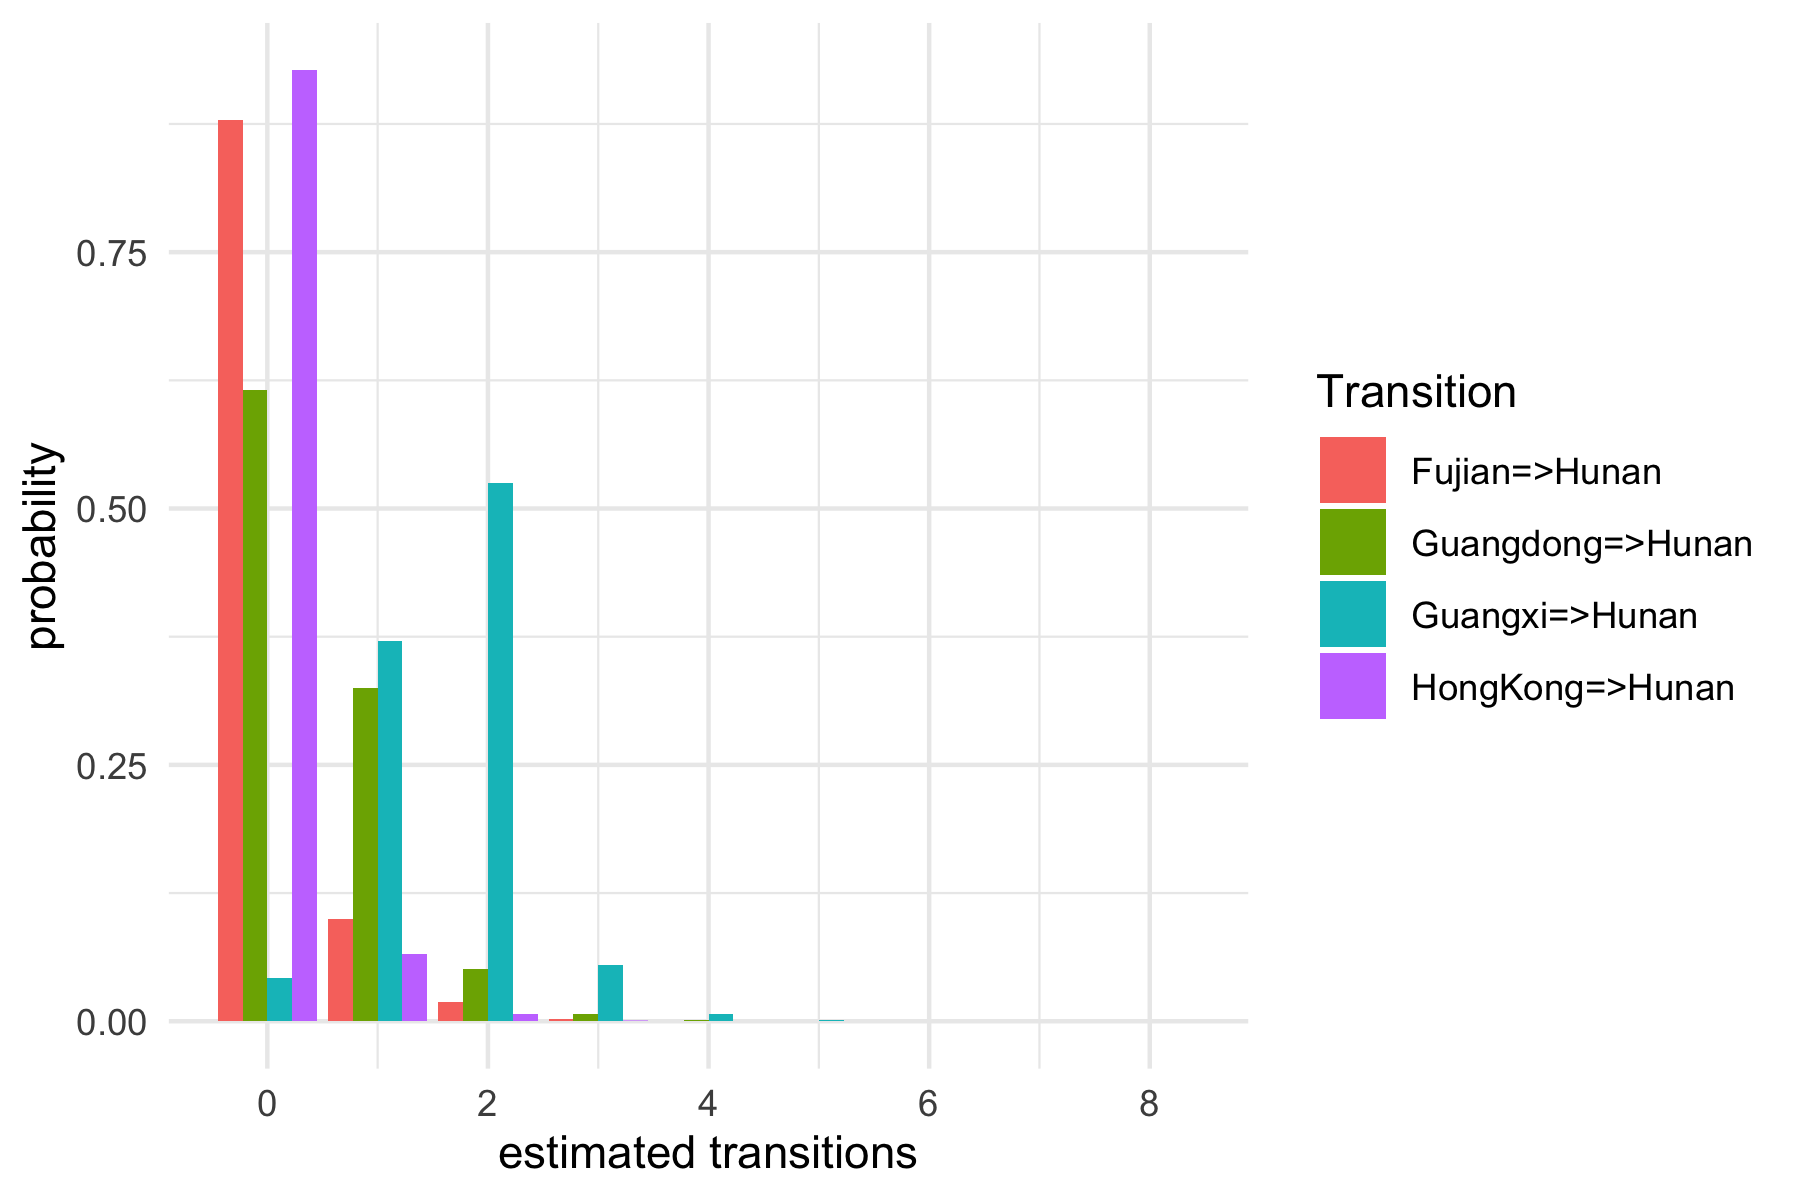
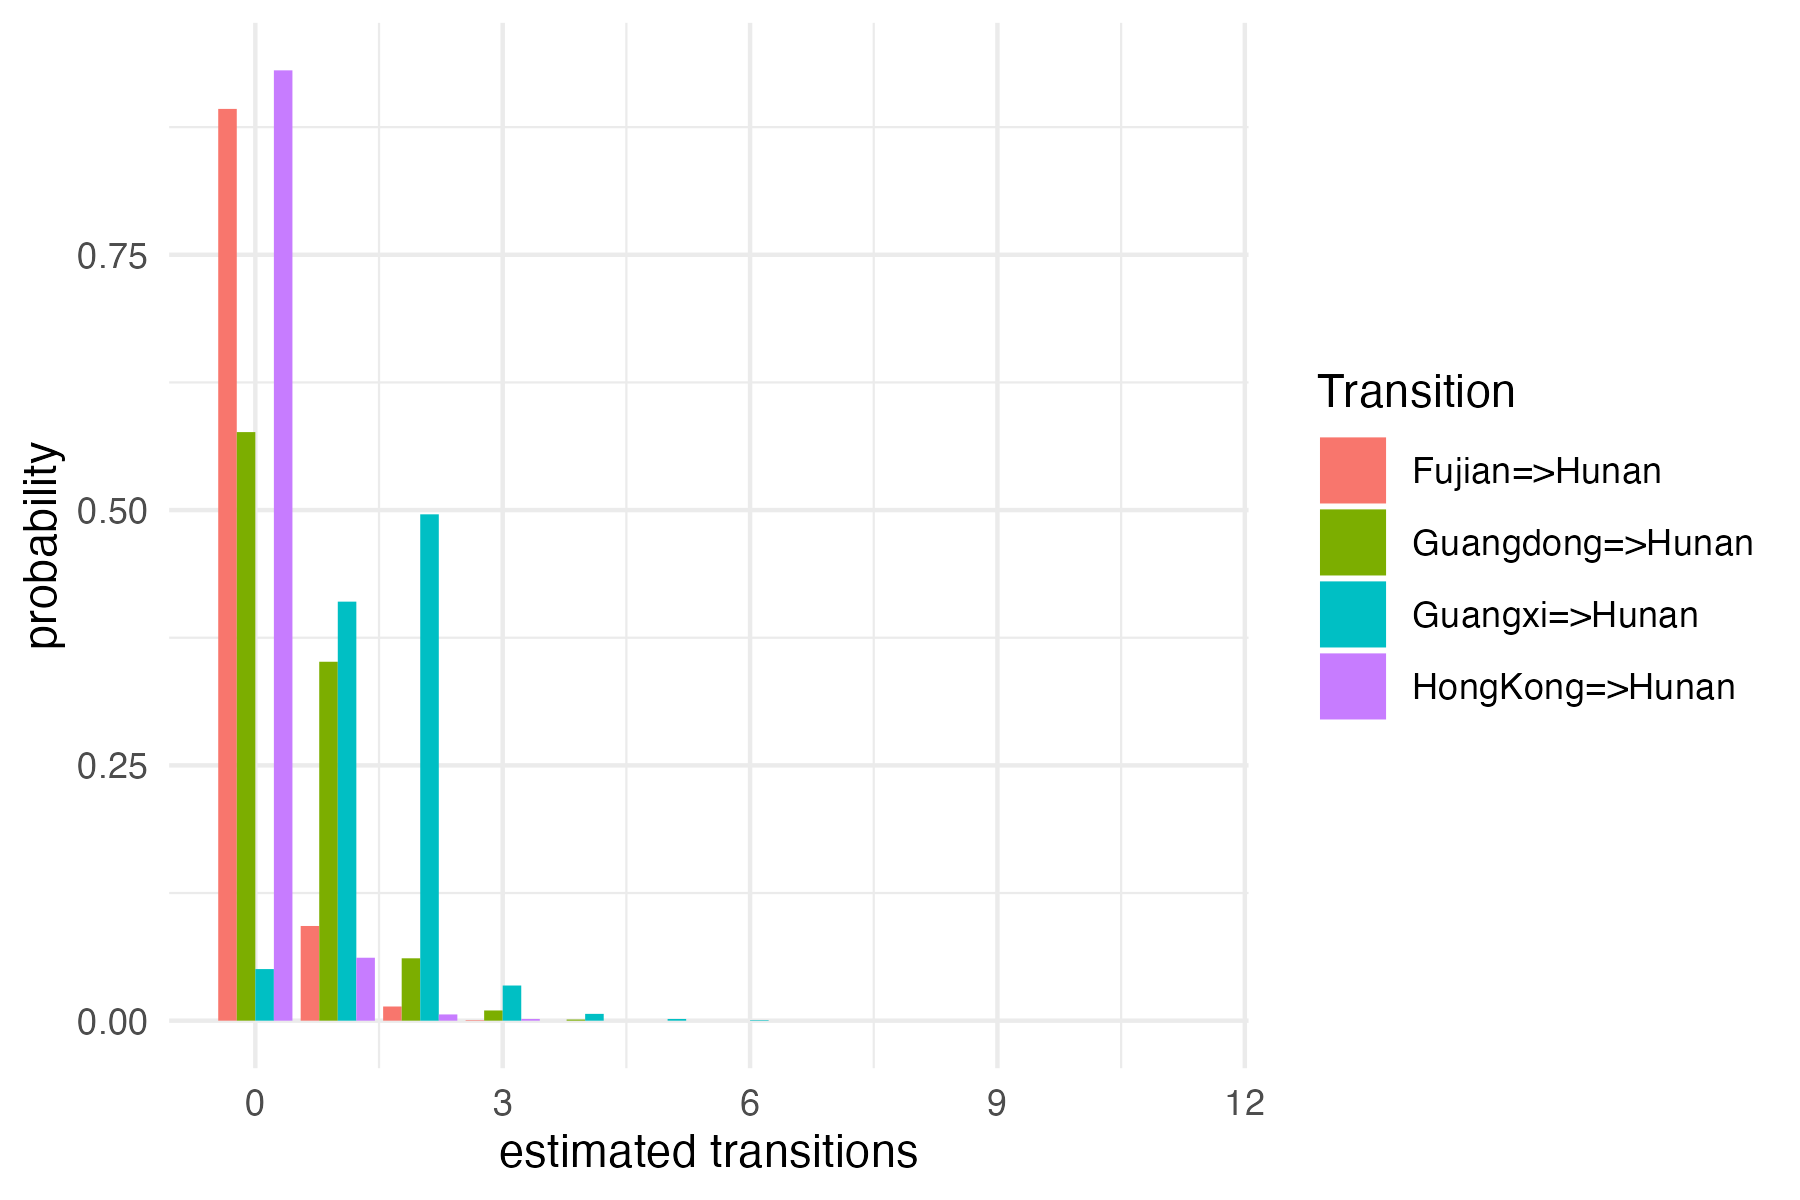
update tutorial and results

diff --git a/tutorials/discrete-phylogeography.md b/tutorials/discrete-phylogeography.md
@@ -271,7 +271,7 @@ or __upper__ stands for the _highest posterior density interval_ and represents 
 compact interval on the selected parameter that contains 95% of the posterior
 probability. It can be thought of as a Bayesian analog to a confidence interval.
 
-The [h5n1.log](https://linguaphylo.github.io/tutorials/discrete-phylogeography/h5n1/h5n1.log) 
+The [h5n1.log](discrete-phylogeography/h5n1//h5n1.log) 
 is alos provided as an additional resource, in case you need to use it for your analysis. 
 
 ## Summarizing posterior trees
@@ -279,7 +279,7 @@ is alos provided as an additional resource, in case you need to use it for your 
 {% include_relative templates/tree-annotator.md fig="TreeAnnotator.png" 
                     fignum=3 trees="h5n1_with_trait.trees" mcctree="h5n1_with_trait.tree"%}
 
-The [h5n1_with_trait.tree](https://linguaphylo.github.io/tutorials/discrete-phylogeography/h5n1/h5n1_with_trait.tree) 
+The [h5n1_with_trait.tree](discrete-phylogeography/h5n1//h5n1_with_trait.tree) 
 is alos provided as an additional resource, in case you need to use it for your analysis. 
 
 
@@ -305,7 +305,7 @@ This means that we have the following distribution for the root location:
 |Fujian|0.0555247084952804|
 
 This distribution shows that the 95% HPD consists of all locations except Hunan, 
-with a strong indication that HongKong might be the root with over 58% probability. 
+with a strong indication that HongKong might be the root with over 59% probability. 
 It is quite typical that a lot of locations are part of the 95% HPD in discrete phylogeography.
 
 
@@ -330,108 +330,123 @@ Lauch the program, and follow the steps below:
 You should end up with something like Figure 4.
 
 <figure class="image">
-  <a href="../discrete-phylogeography/h5n1_with_trait.tree.svg" target="_blank">
-  <img src="../discrete-phylogeography/h5n1_with_trait.tree.svg" alt="MCC tree"></a>
+  <a href="discrete-phylogeography/h5n1/h5n1_with_trait.tree.svg" target="_blank">
+  <img src="discrete-phylogeography/h5n1/h5n1_with_trait.tree.svg" alt="MCC tree"></a>
   <figcaption>Figure 4: Figtree representation of the summary tree. 
   Branch colours represent location and branch widths posterior support for the branch.</figcaption>
 </figure>
 
-Alternatively, you can load the posterior tree set `h5n1_with_trait.trees` (note this is NOT the summary tree, but the complete set) into _DensiTree_ and set it up as follows.
-- Click `Show` to choose `Root Canal` tree to guide the eye.
-- Click `Grid` to choose `Full grid` option, type year 2005 in the `Origin` text field and tick `Reverse` to show the correct time scale. You also can reduce the `Digits` to 0 which will rounding years in the x-axis (i.g. 2005, instead of 2005.22).
-- Go to `Line Color`, you can colour branches by `location`.
+Alternatively, you can use _DensiTree_ to visulize the set of posterior trees  
+and set it up as follows:
+
+1. Use the `Load` option in the `File` menu to load the trees from `h5n1_with_trait.trees` 
+   (note this is NOT the summary tree, but the complete set);
+2. Click `Show` to choose `Root Canal` tree to guide the eye;
+3. Click `Grid` to choose `Full grid` option, type "2005" in the `Origin` text field which is the year,
+   and tick `Reverse` to show the correct time scale; 
+   You also can reduce the `Digits` to 0 which will rounding years in the x-axis 
+   (i.g. 2005, instead of 2005.22);
+4. Go to `Line Color`, you can colour branches by `location` and tick `Show ledgend`.
+
 The final image look like Figure 5.
 
 <figure class="image">
-  <a href="../discrete-phylogeography/DensiTree.png" target="_blank"><img src="../discrete-phylogeography/DensiTree.png" alt="DensiTree"></a>
+  <a href="discrete-phylogeography/h5n1/DensiTree.png" target="_blank">
+  <img src="discrete-phylogeography/h5n1/DensiTree.png" alt="DensiTree"></a>
   <figcaption>Figure 5: The posterior tree set visualised in DensiTree.</figcaption>
 </figure>
 
+## Bonus sections
 
-## The number of estimated transitions
+### The number of estimated transitions
 
-Sometime, we want to visualise how the location states are changed through the phylogeny. 
-`StateTransitionCounter` can count the number of branches in a tree or a set of trees 
-that have a certain state at the parent and another at the node. 
+To visualize how the location states change through the phylogeny, 
+you can use the `StateTransitionCounter` tool, which counts the number of branches 
+in a tree or a set of trees that have a certain state at the parent and another state at the node.
 
-So, install the `Babel` package and run the `StateTransitionCounter` through BEAST application launcher. 
-The command line below will generate the output file `stc.out` 
-containing all counts from the logged posterior trees `h5n1_with_trait.trees`,
-after removing 10% burn-in. 
-Please make sure you install the latest version (Babel >= v0.3.2, BEASTLabs >= v1.9.6).
+To use StateTransitionCounter, first, install the `Babel` package and then 
+run the tool through the BEAST application launcher. 
+The command below will generate the output file `stc.out` containing all counts 
+from the logged posterior trees `h5n1_with_trait.trees`, after removing 10% burn-in.
 
-```
+```bash
 $BEAST2_PATH/bin/applauncher StateTransitionCounter -burnin 10 -in h5n1_with_trait.trees -tag location -out stc.out
 ```
 
-Next, we need to use R to plot the histogram given the summary in `stc.out`. 
-If you have a problem to generate it, you can download a prepared file [stc.out](h5n1Bernoulli/stc.out). 
-You also need to download a script [PlotTransitions.R](discrete-phylogeography/PlotTransitions.R),
-which contains the functions to parse the file and plot the histograms.
-The script requires to install R package `ggplot2` and `tidyverse`.
+Make sure you have installed the latest versions of Babel (>= v0.4.x) and BEASTLabs (>= v2.0.x) 
+to ensure smooth execution.
 
-Run the following scripts in R:
+Next, we will use R to plot the histogram based on the summary in `stc.out`. 
+If you encounter any issues generating it, you can download a prepared file 
+[stc.out](discrete-phylogeography/h5n1//stc.out). 
+Additionally, download the script [PlotTransitions.R](discrete-phylogeography/PlotTransitions.R), 
+which contains functions to parse the file and plot the histograms. 
+Before running the script, make sure you have installed the R packages `ggplot2` and `tidyverse`.
+
+Run the following scripts in R, where `R_SRC_PATH` is the folder containing R code, 
+and `YOUR_WD` is the folder containing the `stc.out` file:
 
 ```R
-#setwd(YOUR_WD)
+setwd(R_SRC_PATH)
 source("PlotTransitions.R")
+setwd(YOUR_WD)
 
+# stc.out must be in YOUR_WD
 stc <- parseTransCount(input="stc.out", pattern = "Histogram", target="Hunan")
 # only => Hunan
 p <- plotTransCount(stc$hist[grepl("=>Hunan", stc$hist[["Transition"]]),])
 ggsave( paste0("transition-distribution-hunan.png"), p, width = 6, height = 4) 
 ```
 
-The `stc` contains a statistical summary of the estimated transition counts related to the target location, 
-here is `Hunan`, and a table of the actual counts. 
-To plot a simple graph, we only pick up the transitions to Hunan in the next command,
-and then save the graph a PNG file. The counts are normalised into probabilities. 
+The `stc` file contains a statistical summary of the estimated transition counts 
+related to the target location, which is `Hunan`, and a table of the actual counts. 
+To plot a simple graph, we will pick up the transitions to Hunan in the next command 
+and then save the graph as a PNG file. The counts will be normalized into probabilities.
 
 <figure class="image">
-  <a href="../discrete-phylogeography/transition-distribution-hunan.png" target="_blank"><img src="../discrete-phylogeography/transition-distribution-hunan.png" alt="DensiTree"></a>
+  <a href="discrete-phylogeography/h5n1/transition-distribution-hunan.png" target="_blank">
+  <img src="discrete-phylogeography/h5n1/transition-distribution-hunan.png" alt="DensiTree">
+  </a>
   <figcaption>Figure 6: The probability distribution of estimated transitions into Hunan from other places.</figcaption>
 </figure>
 
-The x-axis presents the number of estimated transitions in all migration events from one particular location to another which is separated by "=>",
-and y-axis is the probability which is normalised from the total counts.
-As you can see, "Guangxi=>Hunan" (blue) has higher probability than other migration events. 
-This type of visualisation will help you to quantify the uncertainty how the disease (H5N1) spread from/to the location(s) of interest, which is simulated from your model and given the data.    
+The x-axis represents the number of estimated transitions in all migration events 
+from one particular location to another, separated by "=>", 
+and the y-axis represents the probability, which is normalized from the total counts. 
+From the graph, we can observe that "Guangxi => Hunan" (in blue) has a higher probability 
+than other migration events. 
+This type of visualization quantifies the uncertainty in how the disease (H5N1) spreads 
+between locations of interest, as simulated from your model and given the data.
+For more details and visualizations, you can refer to the work of [Douglas et. al. 2020](#references).
 
-Because the posterior trees in this analysis are scaled to time, also known as "time tree", 
-we can convert this graph into daily transitions. More details and visualisations can be seen from [Douglas et. al. 2020](#references).
+### Visualizing Bayesian phylogeographic reconstructions
 
-## Post processing geography
+To analyze and visualize phylogeographic reconstructions resulting from Bayesian inference of 
+spatio-temporal diffusion based on the [Bielejec et al., 2011](#references) method, 
+we can use a software called `spread`. Download it from the 
+[Spread website](https://rega.kuleuven.be/cev/ecv/software/spread),
+ and follow the steps below:
 
-Start the application `spread`, which can be used to analyze and visualize phylogeographic reconstructions resulting from Bayesian inference of spatio-temporal diffusion [Bielejec et al., 2011](#references).  
+1. Start the `spread` application.
+2. Select the `Open` button in the panel under `Load tree file`.
+3. Choose the summary tree file `h5n1_with_trait`.tree.
+4. Change the `State attribute name` to the name of the trait, which is `location` in this analysis.
+5. Click the `Setup` button to edit altitude and longitude for the locations. 
+   You can also load this information from a tab-delimited file, and a prepared file 
+   [locationCoordinates_H5N1.txt](discrete-phylogeography/h5n1/locationCoordinates_H5N1.txt) is also available.
+6. Open the `Output` tab in the left-hand side panel, 
+   and then choose where to save the KML file (default is `output.kml`).
+8. Click the `generate` button to create the KML file.
 
-Select the `Open` button in the panel under `Load tree file`, 
-and select the summary tree file `h5n1_with_trait.tree`.
-Change the `State attribute name` to the name of the trait,   
-which is `location` in this analysis.
-Click the `Setup` button. A dialog pops up where you can edit altitude and
-longitude for the locations. Alternatively, you can load it from a tab-delimited
-file. A file `locationCoordinates_H5N1.txt` is prepared in [Spread website](https://www.kuleuven.be/aidslab/phylogeography/SPREAD.html).
+The world map with the tree superimposed onto the area where the rabies epidemic occurred 
+will be displayed.
+If you encounter any issues generating the KML file, you can download a prepared 
+[output.kml](discrete-phylogeography/h5n1//output.kml).
 
-Tip: to find latitude and longitude of locations, you can use Google maps,
-switch on photo's and select a photo at the location of the map. Click the
-photo, then click `Show in Panoramio` and a new page opens that contains the
-locations where the photo was taken. An alternative is to use `Google Earth`, and
-point the mouse to the location. Google-Earth shows latitude and longitude of
-the mouse location at the bottom of the screen.
-
-Now, open the `Output` tab in the panel on the left hand side. Here, you
-can choose where to save the KML file (default `output.kml`).
-Select the `generate` button to generate the KML file, and a world map
-appears with the tree superimposed onto the area where the rabies epidemic
-occurred.
-
-If you have a problem to generate KML file, 
-you can download a prepared [output.kml](h5n1Bernoulli/output.kml).
-
-The KML file can be read into `Google Earth`. Then, the spread of the epidemic
-can be animated through time. The coloured areas represent the 95% HPD
-regions of the locations of the internal nodes of the summary tree.
-
+The KML file can be imported into Google Earth, 
+allowing you to animate the spread of the epidemic through time. 
+The colored areas on the map represent the 95% Highest Posterior Density (HPD) regions of 
+the locations of the internal nodes of the summary tree.
 
 ## Programs used in this tutorial
 

diff --git a/tutorials/figtree.md b/tutorials/figtree.md
@@ -1,17 +1,21 @@
 ---
 layout: page
-title: FigTree v1.4.4
+title: Launch FigTree v1.4.4 in Mac
 author: 'Walter Xie'
 permalink: /tutorials/figtree/
 ---
 
-There is a bug to launch the Mac version of FigTree v1.4.4, 
-but you follow the instruction below to start it from the terminal:
+There is a bug to launch FigTree v1.4.4 using application bundle in Mac, 
+but you can follow the instruction below to start it from the terminal:
 
-1. Download the [figtree](https://linguaphylo.github.io/tutorials/figtree/figtree) script;
-2. 
+1. Download FigTree v1.4.4, and install it by copying and paste all folders and files 
+   inside the .dmg into a new folder (e.g., FigTree1.4.4) in your `Applications` directory;
+2. Create a new subfolder named `bin` inside the `FigTree1.4.4` folder;
+3. Download the [figtree](https://linguaphylo.github.io/tutorials/figtree/figtree) script 
+   and save it into the `bin` subfolder;
+4. Give the `figtree` script executable permission using the command `chmod u+x figtree` in the terminal.
 
-After all done, the folder structure should look like:
+After completing these steps, your folder structure should look like this:
 
 <figure class="image">
   <a href="../figtree/figtree.png" target="_blank">
@@ -19,7 +23,7 @@ After all done, the folder structure should look like:
   <figcaption>Figure 1: the folder structure.</figcaption>
 </figure>
 
-To launch it from the terminal using the following command:
+To launch FigTree from the terminal, you can use the following command:
 
 ```bash
 /Applications/FigTree1.4.4/bin/figtree
